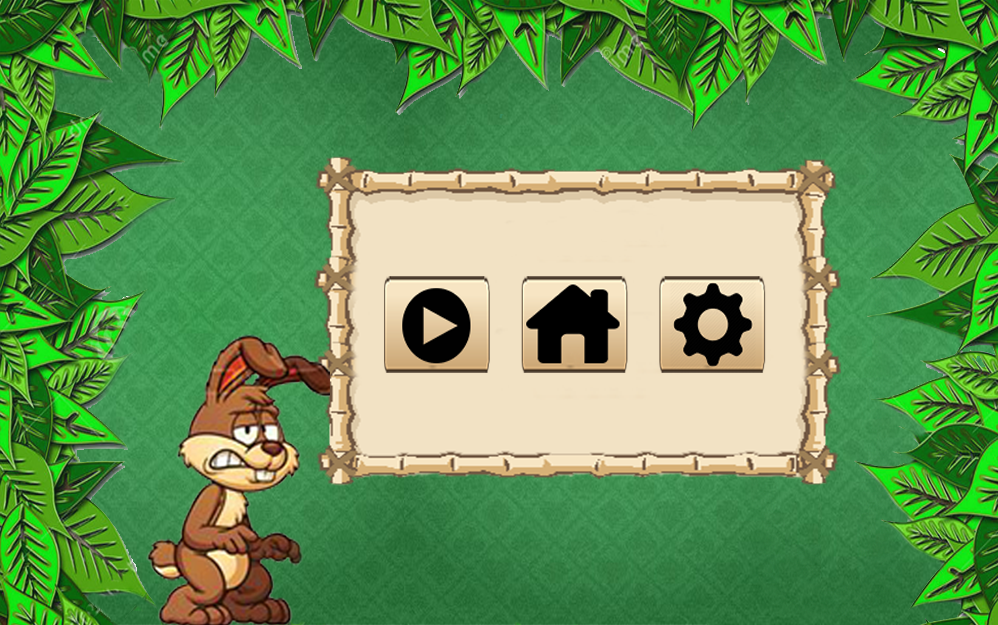
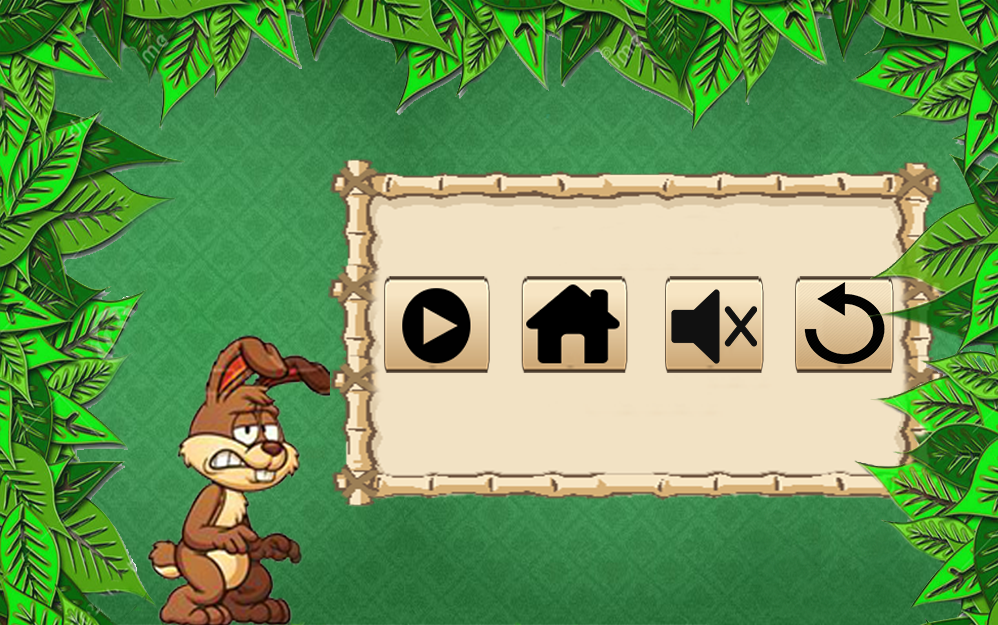
Adding more option to pause menu

Changed region(s): [[0.3106, 0.2432, 0.9629, 0.8208]]

diff --git a/core/src/com/mygdx/game/GUI/PauseMenu.java b/core/src/com/mygdx/game/GUI/PauseMenu.java
@@ -22,7 +22,8 @@ public class PauseMenu implements Screen {
 
     private Image playButton;
     private Image menuButton;
-    private Image optionsButton;
+    private Image soundButton;
+    private Image restartButton;
 
     private Texture button;
     private Texture background;
@@ -35,7 +36,7 @@ public class PauseMenu implements Screen {
         this.game = game;
 
         button = new Texture("button.png");
-        background = new Texture("pauseMenu.png");
+        background = new Texture("pauseMenu (1).png");
 
         gamePort=new FitViewport(Gdx.graphics.getWidth(), Gdx.graphics.getHeight());
         gamePort.apply();
@@ -60,15 +61,23 @@ public class PauseMenu implements Screen {
 
         xPlayButton= Gdx.graphics.getWidth()*66/100;
 
-        optionsButton = new Image(button);
-        optionsButton.setWidth(wPlayButton);
-        optionsButton.setHeight(hPlayButton);
-        optionsButton.setPosition(xPlayButton,yPlayButton);
+        soundButton = new Image(button);
+        soundButton.setWidth(wPlayButton);
+        soundButton.setHeight(hPlayButton);
+        soundButton.setPosition(xPlayButton,yPlayButton);
+
+        xPlayButton= Gdx.graphics.getWidth()*77/100;
+
+        restartButton = new Image(button);
+        restartButton.setWidth(wPlayButton);
+        restartButton.setHeight(hPlayButton);
+        restartButton.setPosition(xPlayButton,yPlayButton);
 
         Gdx.input.setInputProcessor(stage);
         stage.addActor(playButton);
         stage.addActor(menuButton);
-        stage.addActor(optionsButton);
+        stage.addActor(soundButton);
+        stage.addActor(restartButton);
 
         playButton.addListener(new ClickListener(){
             @Override
@@ -84,10 +93,17 @@ public class PauseMenu implements Screen {
             }
         });
 
-        optionsButton.addListener(new ClickListener(){
+        soundButton.addListener(new ClickListener(){
             @Override
             public void clicked(InputEvent event, float x, float y){
                 //Adicionar menu das opçoes
+            }
+        });
+
+        restartButton.addListener(new ClickListener(){
+            @Override
+            public void clicked(InputEvent event, float x, float y){
+                setToDifferentPlayScreen();
             }
         });
 
@@ -95,6 +111,10 @@ public class PauseMenu implements Screen {
 
     public void setPlayScreen(){
         game.setToSamePlayScreen();
+    }
+
+    public void setToDifferentPlayScreen(){
+        game.setToPlayScreen();
     }
 
     public void setMenuScreen(){
